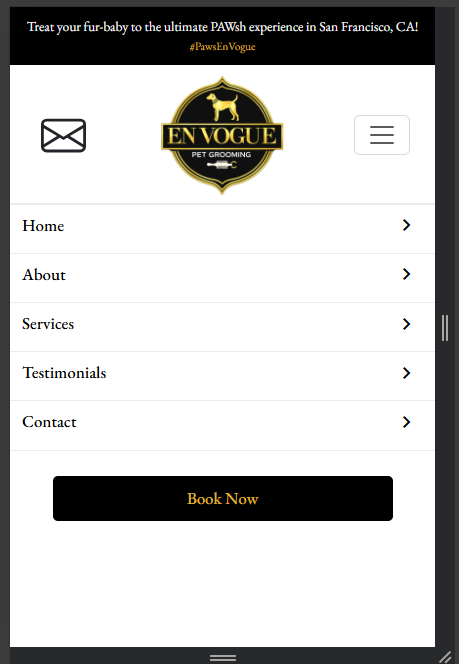
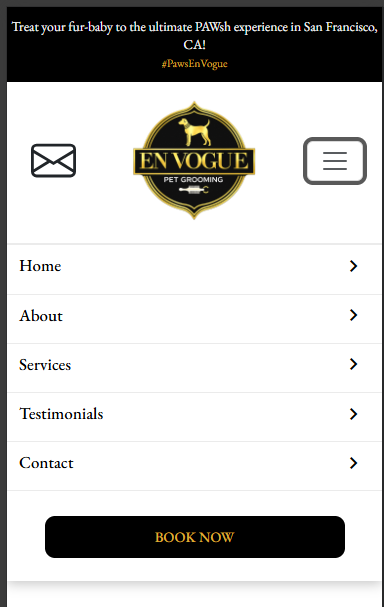
Finished the navbar v1. Added screenshots to the readme file.

diff --git a/client/src/components/Navbar/Navbar.css b/client/src/components/Navbar/Navbar.css
@@ -1,6 +1,9 @@
 /************************** BASE STYLES (MOBILE) **************************/
 
 /************ NAV HEADER (MOBILE) ************/
+nav {
+  box-shadow: 0 3px 12px rgba(0,0,0,0.22)
+}
 
 .nav-envelope {
   text-decoration: none;
@@ -65,12 +68,17 @@
 
 
 /************************** MEDIA QUERIES **************************/
+/************ SMALL SCREENS ************/
+@media (max-width: 767px) {
+  .nav-booknow-btn {
+    margin-bottom: 15px;
+  }
+}
 
 /************ MEDIUM SCREENS ************/
 @media (min-width: 768px) {
   .navbar {
     padding: 0px !important;
-    box-shadow: 0 3px 12px rgba(0,0,0,0.22);
   }
   #brand-logo {
     height: 95px;

diff --git a/README.md b/README.md
@@ -38,12 +38,17 @@ UI sections from V1.
 
 ### Mobile Navigation
 
--   ![Mobile Navbar](docs/screenshots/navbar/mobile_navbar.png)
+![Mobile Navbar](docs/screenshots/navbar/mobile_navbar.png)
 
 ### Mobile Menu
 
--   ![Mobile Navbar Expanded](docs/screenshots/navbar/expanded_mobile_navbar.png)
+![Mobile Navbar Expanded](docs/screenshots/navbar/expanded_mobile_navbar.png)
 
+### Tablet Layout (768px+)
+![Tablet Navbar](docs/screenshots/navbar/tablet_navbar_768px.png)
+
+### Desktop Layout (992px+)
+![Desktop Navbar](docs/screenshots/navbar/desktop_navbar_992px.png)
 ------------------------------------------------------------------------
 
 ## Why This Project Exists
